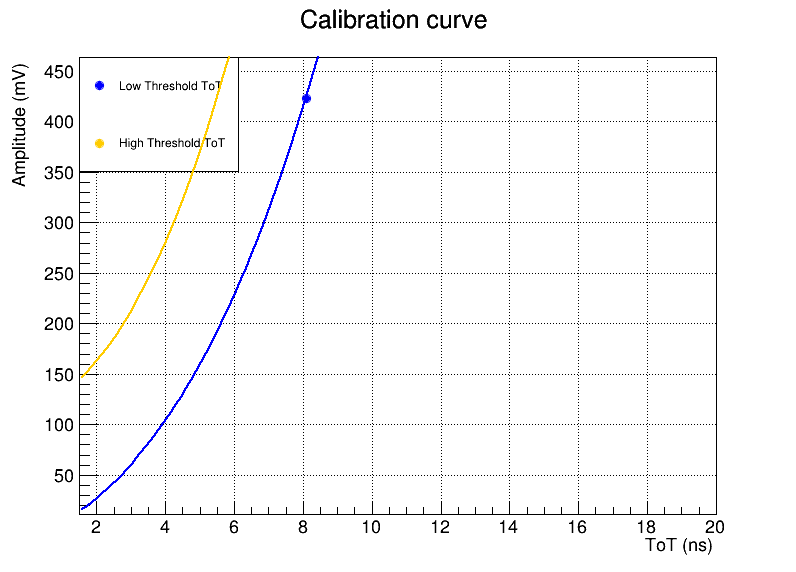
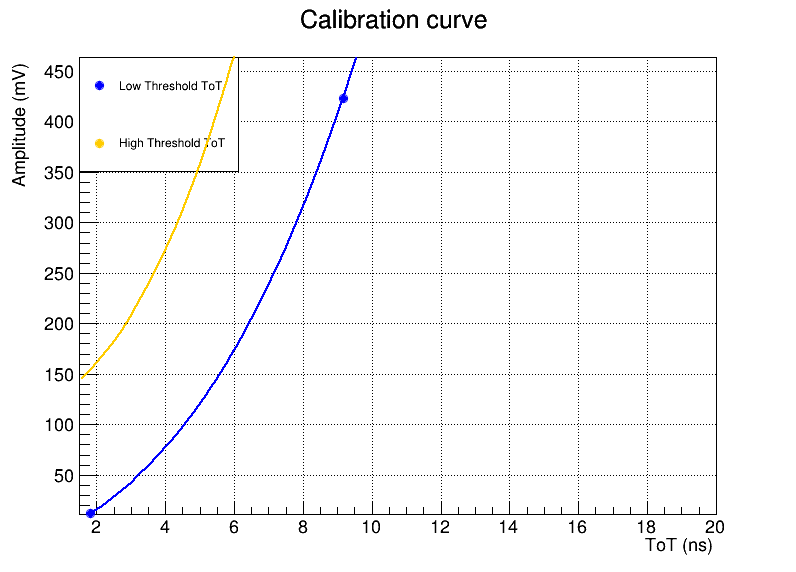
new commit

diff --git a/time_distribution_graph.C b/time_distribution_graph.C
@@ -30,7 +30,7 @@ double gaussian(double x, double mean, double stddev) {
 double Gaussian_sum(double x, const std::vector<double>& times) {
     double G = 0;
     for (double t : times) {
-        G += gaussian(x, t, GAUSSIAN_STDDEV) * exp(-0.8 * x);
+        G += gaussian(x, t, GAUSSIAN_STDDEV) * exp(-0.6 * x);
     }
     return G;
 }
@@ -203,7 +203,7 @@ void processFile(const std::string& filename, std::vector<double>& N, std::vecto
       legend->Draw();
       
       // Salvataggio del canvas su file
-      std::string outputFilename = "time_distribution_test5" + filename + ".png";
+      std::string outputFilename = "time_distribution_test7" + filename + ".png";
       canvas->SaveAs(outputFilename.c_str());
       
       // Pulizia della memoria
